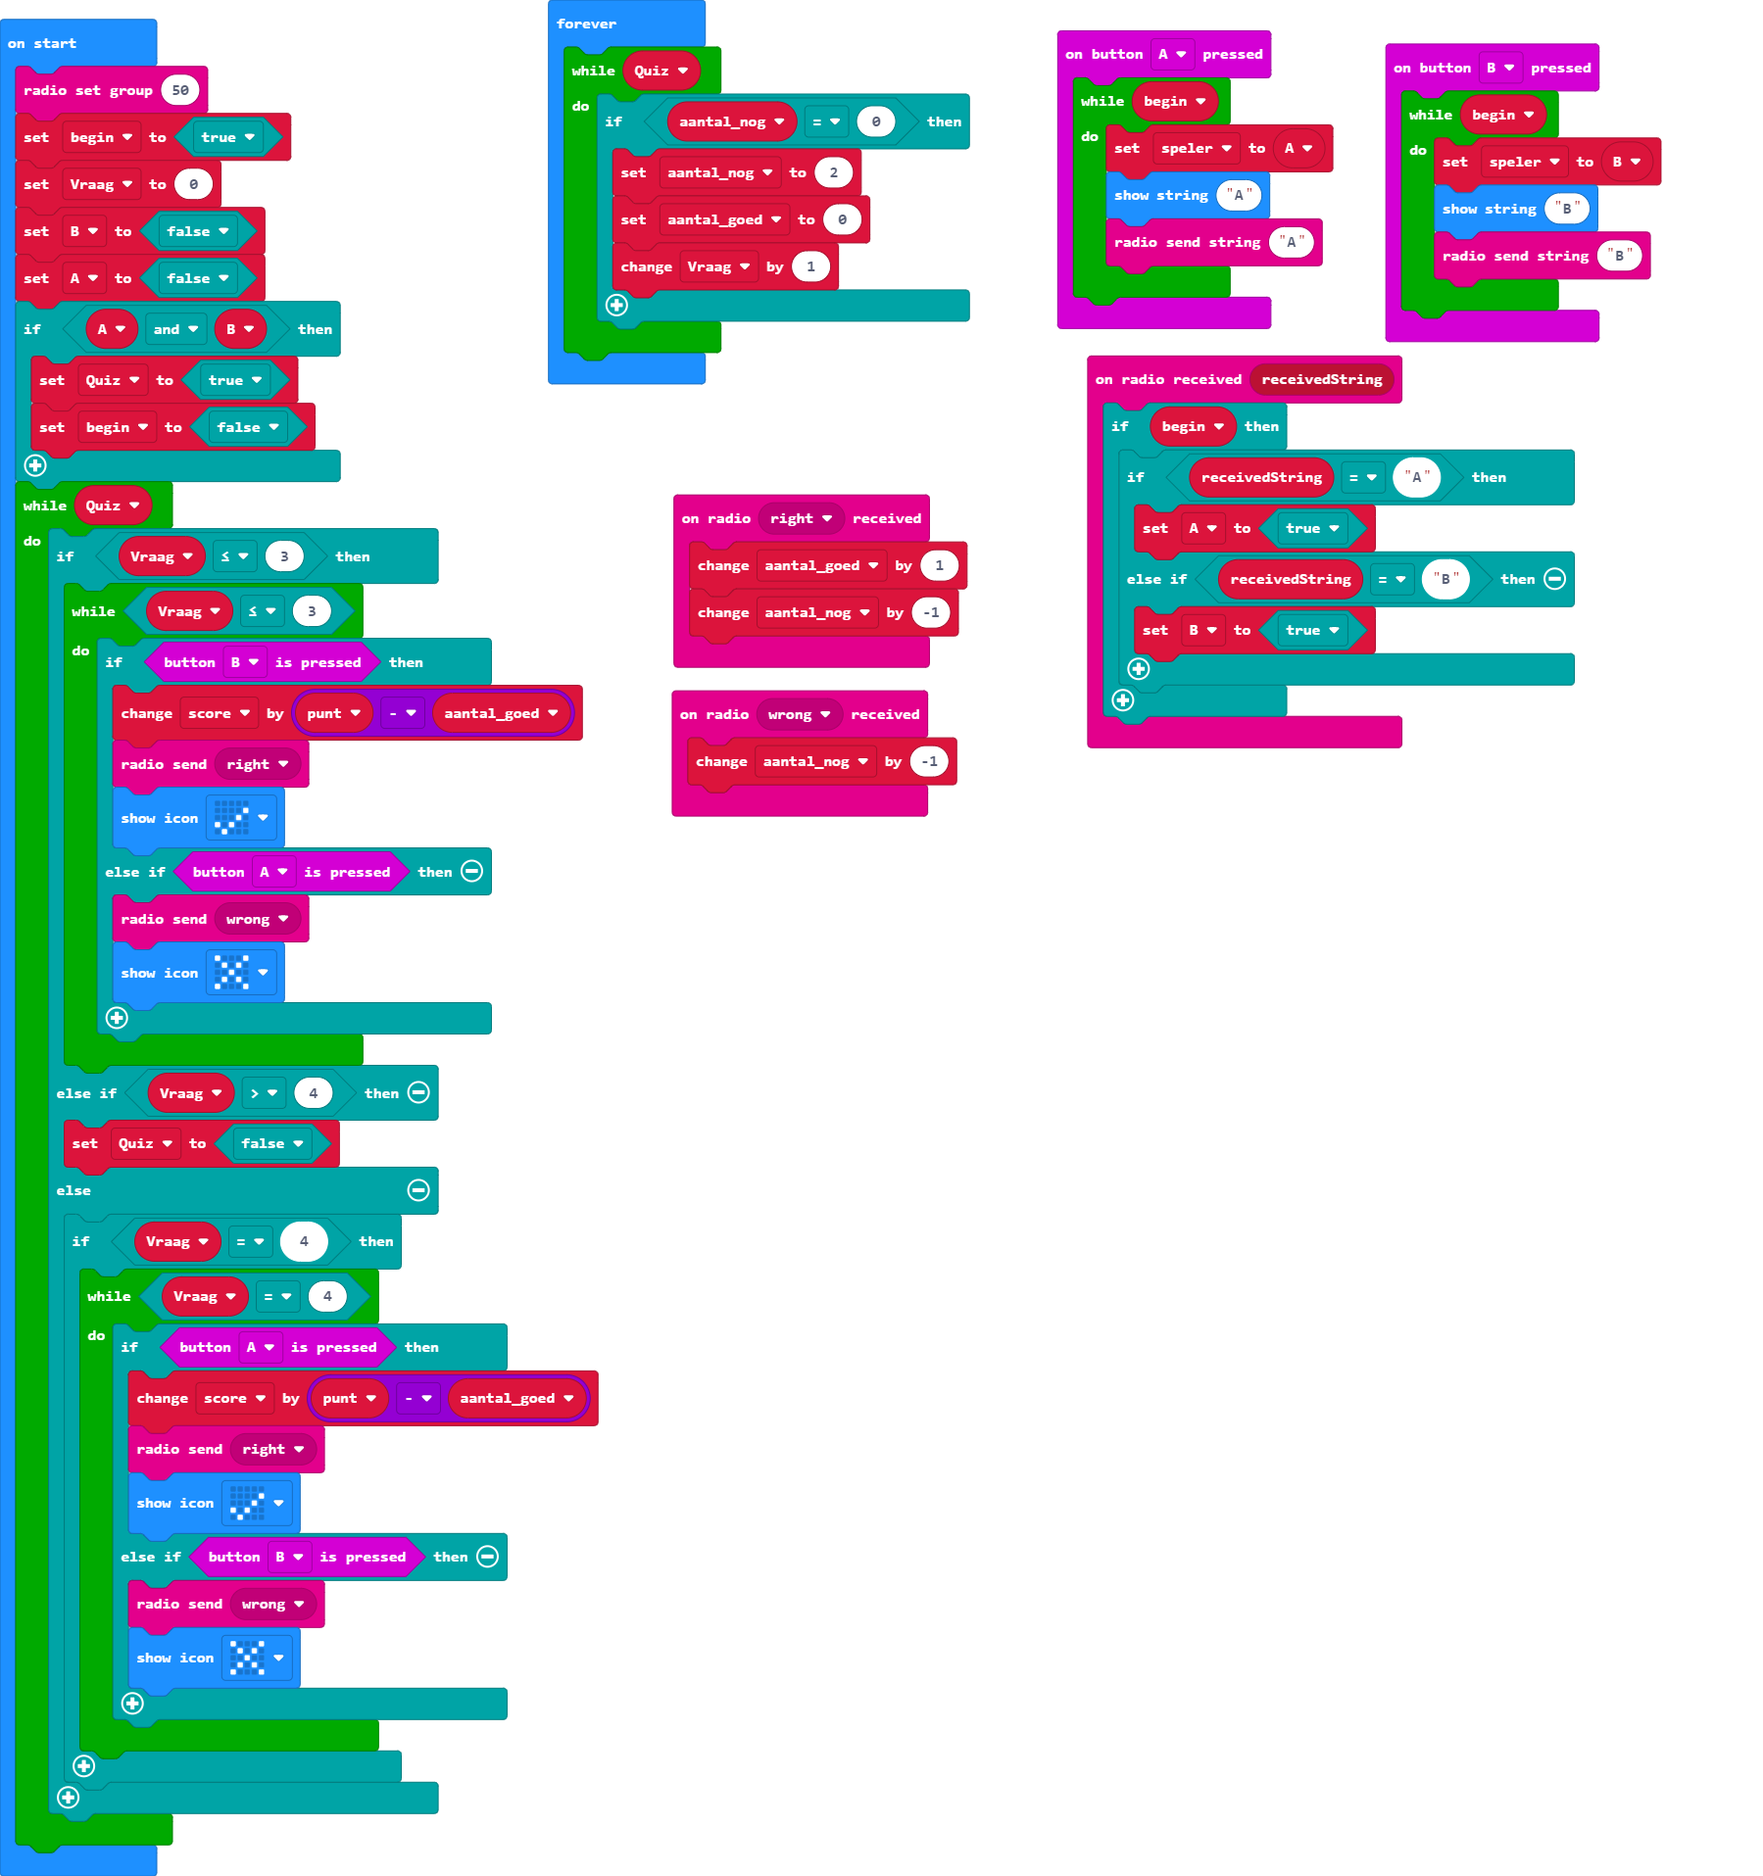
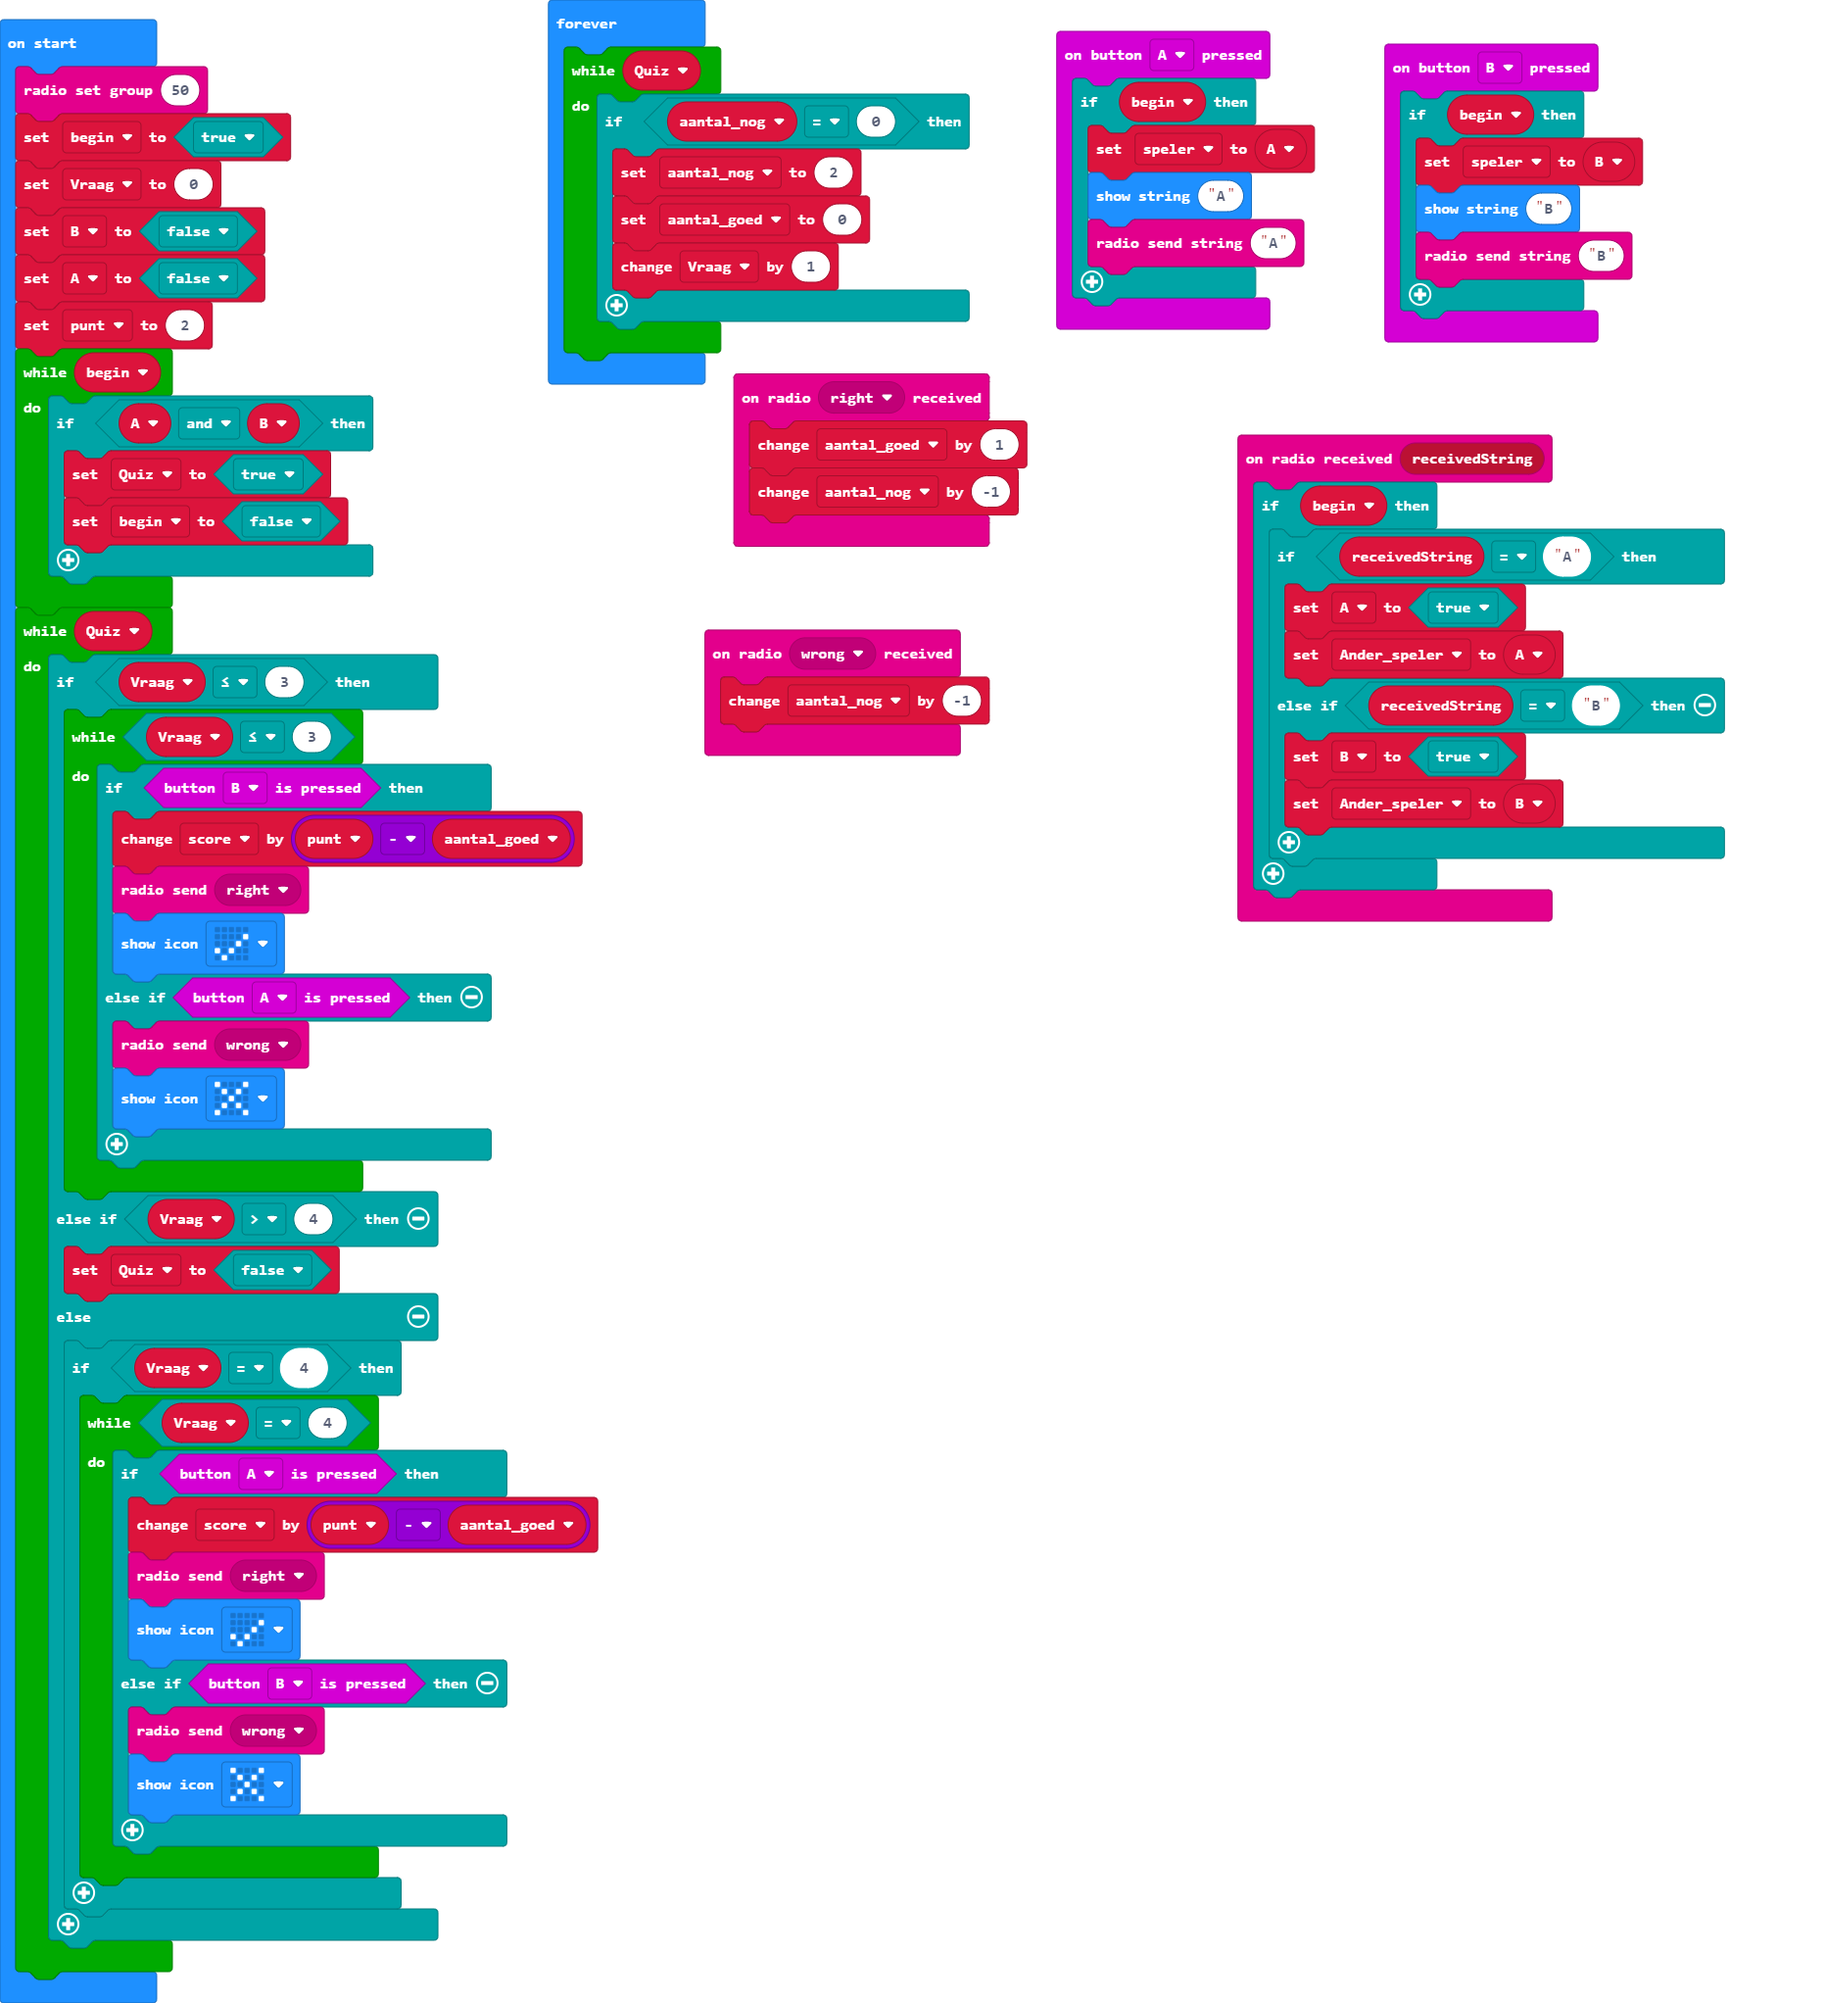
Update main.blocks, main.ts

Changed region(s): [[0.2802, 0.0, 0.965, 0.4621], [0.0, 0.0, 0.3424, 1.0]]

diff --git a/main.ts b/main.ts
@@ -4,7 +4,7 @@ enum RadioMessage {
     right = 32391
 }
 input.onButtonPressed(Button.A, function () {
-    while (begin) {
+    if (begin) {
         speler = A
         basic.showString("A")
         radio.sendString("A")
@@ -14,13 +14,15 @@ radio.onReceivedString(function (receivedString) {
     if (begin) {
         if (receivedString == "A") {
             A = true
+            Ander_speler = A
         } else if (receivedString == "B") {
             B = true
+            Ander_speler = B
         }
     }
 })
 input.onButtonPressed(Button.B, function () {
-    while (begin) {
+    if (begin) {
         speler = B
         basic.showString("B")
         radio.sendString("B")
@@ -34,6 +36,7 @@ radio.onReceivedMessage(RadioMessage.wrong, function () {
     aantal_nog += -1
 })
 let aantal_nog = 0
+let Ander_speler = false
 let speler = false
 let aantal_goed = 0
 let score = 0
@@ -46,12 +49,14 @@ begin = true
 let Vraag = 0
 B = false
 A = false
-if (A && B) {
-    Quiz = true
-    begin = false
+let punt = 2
+while (begin) {
+    if (A && B) {
+        Quiz = true
+        begin = false
+    }
 }
 while (Quiz) {
-    let punt = 0
     if (Vraag <= 3) {
         while (Vraag <= 3) {
             if (input.buttonIsPressed(Button.B)) {
